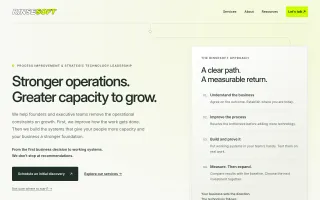
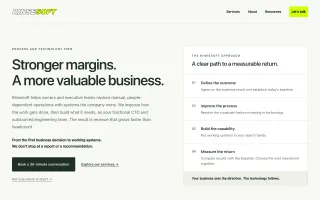
Showcase: refresh Rinsesoft, add WDZ and Fraktul
Rinsesoft's screenshot and description follow the site's redesign and
rewrite. WDZ (wdz.dev) and Fraktul (fraktul.dev) are new entries, each
with a 1280 by 800 capture and its width variants.

diff --git a/docs/src/lib/showcase.ts b/docs/src/lib/showcase.ts
@@ -4,6 +4,7 @@ import { demoImage, renderMdRange } from "./md-renderer.ts";
 
 export const SHOWCASE_SITES = [
   { slug: "rinsesoft", name: "Rinsesoft", url: "https://rinsesoft.com" },
+  { slug: "wdz", name: "WDZ", url: "https://wdz.dev" },
   {
     slug: "sunridge",
     name: "Sunridge Counseling",
@@ -11,6 +12,7 @@ export const SHOWCASE_SITES = [
   },
   { slug: "dgco", name: "DGCO", url: "https://dgcocpa.com" },
   { slug: "lateral", name: "Lateral EMDR", url: "https://lateralemdr.com" },
+  { slug: "fraktul", name: "Fraktul", url: "https://fraktul.dev" },
   { slug: "bascik", name: "Bascik", url: "https://bascik.dev" },
   { slug: "bascik-shop", name: "Bascik Shop", url: "https://shop.bascik.dev" },
 ] as const;

diff --git a/docs/e2e/showcase.spec.ts b/docs/e2e/showcase.spec.ts
@@ -2,6 +2,7 @@ import { test, expect } from "@playwright/test";
 
 const sites = [
   { slug: "rinsesoft", name: "Rinsesoft", url: "https://rinsesoft.com" },
+  { slug: "wdz", name: "WDZ", url: "https://wdz.dev" },
   {
     slug: "sunridge-counseling",
     name: "Sunridge Counseling",
@@ -13,6 +14,7 @@ const sites = [
     name: "Lateral EMDR",
     url: "https://lateralemdr.com",
   },
+  { slug: "fraktul", name: "Fraktul", url: "https://fraktul.dev" },
   { slug: "bascik", name: "Bascik", url: "https://bascik.dev" },
   { slug: "bascik-shop", name: "Bascik Shop", url: "https://shop.bascik.dev" },
 ];

diff --git a/docs/README.md b/docs/README.md
@@ -43,15 +43,15 @@ yarn docs:coverage                   # unit and integration tests with coverage 
 
 The `/showcase` page and homepage preview share the site list in
 `src/lib/showcase.ts` and descriptions in `content/showcase.md`. The homepage
-features Rinsesoft and Lateral EMDR; the full showcase also includes Sunridge
-Counseling, DGCO, and Bascik itself.
+features Lateral EMDR and Bascik Shop; the full showcase also includes Rinsesoft,
+WDZ, Sunridge Counseling, DGCO, Fraktul, and Bascik itself.
 New submissions arrive through `.github/ISSUE_TEMPLATE/showcase.yml`.
 
 Capture public homepage screenshots with the existing recording script:
 
 ```sh
 # from docs/, using Node 26
-node scripts/capture-demos.ts showcase-rinsesoft showcase-sunridge showcase-dgco showcase-lateral showcase-bascik
+node scripts/capture-demos.ts showcase-rinsesoft showcase-wdz showcase-sunridge showcase-dgco showcase-lateral showcase-fraktul showcase-bascik showcase-bascik-shop
 ```
 
 Screenshots are committed WebP images, not fetched during builds. Keep them free

diff --git a/docs/content/showcase.md b/docs/content/showcase.md
@@ -14,7 +14,11 @@ Bascik itself is checked with [unit, integration, and end-to-end tests](/interna
 
 ### Rinsesoft
 
-A founder-led practice helping businesses improve operations and build the systems and capacity to grow.
+A process and technology firm that helps owners and executive teams replace manual, people-dependent operations with systems the company owns.
+
+### WDZ
+
+The company behind Rinsesoft and Lateral EMDR, with fifteen years of technology work for its clients.
 
 ### Sunridge Counseling
 
@@ -27,6 +31,10 @@ A CPA and business consulting firm helping clients reach their personal and fina
 ### Lateral EMDR
 
 A SaaS website and dashboard built with Bascik and the Netlify adapter. The dashboard uses stream scripts and server scripts.
+
+### Fraktul
+
+A tool for mapping software. One model file describes a system, and fraktul checks it against the code and draws diagrams you click through, down to a line of source.
 
 ### Bascik
 
